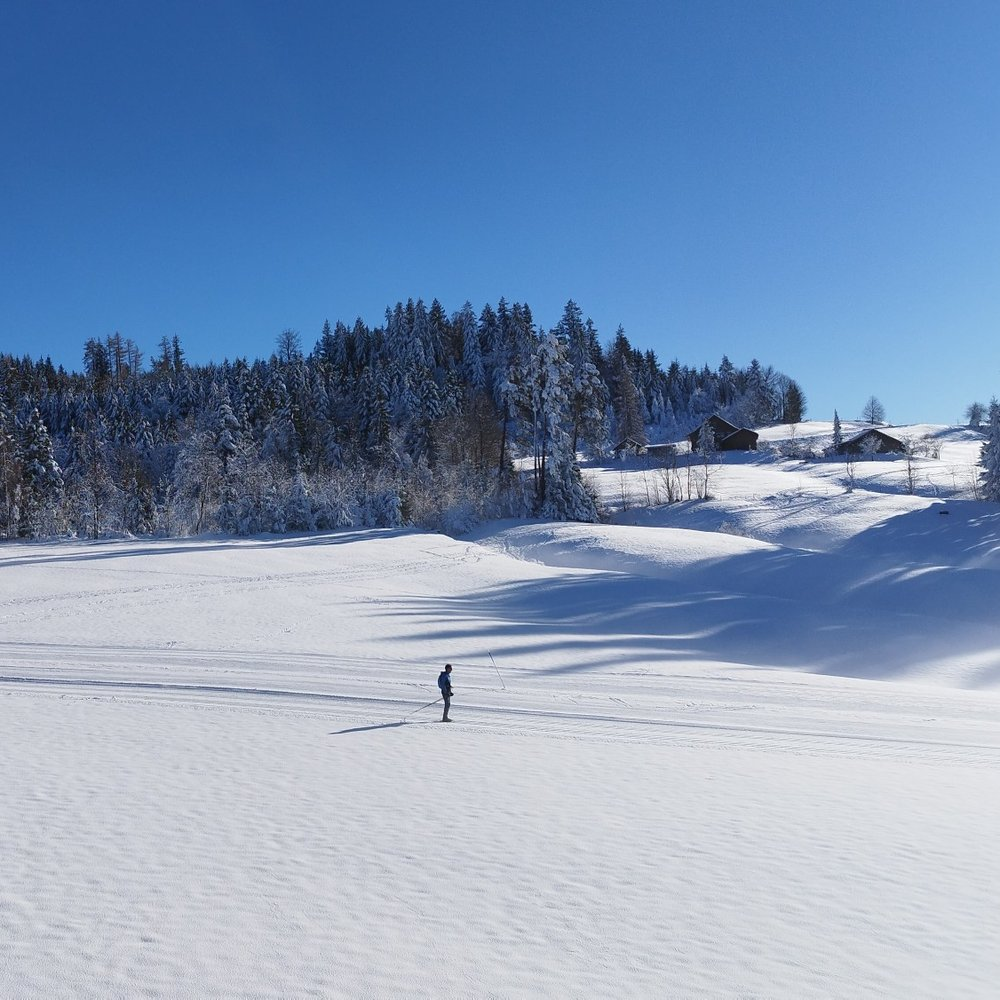
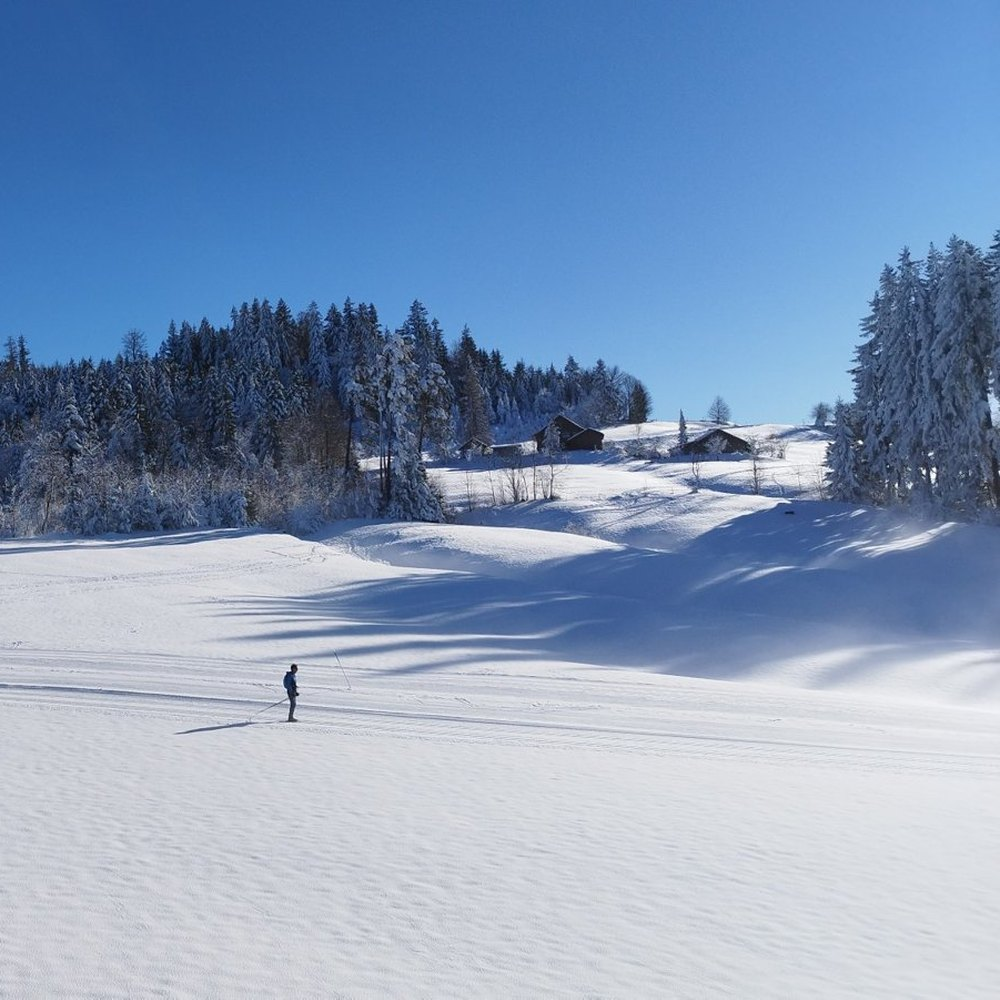
Titelbilder: Sommerbild Kirche entfernt, Winter Hügel heller, Langlauf besserer Ausschnitt
Im Sommer jetzt immer der Baum (Laptop und Handy). Hügel: dunkle Stellen
aufgehellt, weniger abgedunkelt. Langlauf: Laptop mit Wald, Hof und beiden
Langläufern; Handy neues Bild mit Schrift rechts. Tests, STAND, ENTSCHEIDE nachgeführt.

Claude-Session: https://claude.ai/code/session_01DxcwoxtqwL9C5tkRY5HxG9

diff --git a/css/kalender.css b/css/kalender.css
@@ -27,7 +27,6 @@ h1, h2, h3 { line-height: 1.2; }
 
 /* ---------- Titelbild (je nach Jahreszeit, siehe js/titelbild.js) ---------- */
 :root { --foto: url("../bilder/titel/herbst.jpg"); }
-.sommer     { --foto: url("../bilder/titel/sommer.jpg"); }
 .baum       { --foto: url("../bilder/titel/baum.jpg"); }
 .winter1    { --foto: url("../bilder/titel/winter.jpg"); }
 .winter2    { --foto: url("../bilder/titel/winter2.jpg"); }
@@ -36,7 +35,6 @@ h1, h2, h3 { line-height: 1.2; }
 .fruehling2 { --foto: url("../bilder/titel/fruehling2.jpg"); }
 @media (max-width: 719px) {   /* Handy: quadratische Fotos */
   :root       { --foto: url("../bilder/titel/herbst-handy.jpg"); }
-  .sommer     { --foto: url("../bilder/titel/sommer-handy.jpg"); }
   .baum       { --foto: url("../bilder/titel/baum-handy.jpg"); }
   .winter1    { --foto: url("../bilder/titel/winter-handy.jpg"); }
   .winter2    { --foto: url("../bilder/titel/winter2-handy.jpg"); }
@@ -53,20 +51,23 @@ h1, h2, h3 { line-height: 1.2; }
   .kopf { background-position: center 30%; }
   .baum .kopf { background-size: cover, 175% auto; background-position: center, left 62%; }
   .fruehling2 .kopf { background-position: center, center 100%; }   /* Hütte über der Schrift */
+  .winter1 .kopf { background-position: center, center 62%; }        /* Langläufer links, Hof und Wald sichtbar */
+  .winter1 .kopf-innen { text-align: right; }                       /* Schrift rechts, Langläufer bleibt frei */
 }
 @media (min-width: 720px) { .kopf { min-height: 380px; } }
 @media (min-width: 900px) { .kopf { background-position: center 30%; min-height: 420px; } }
 /* Laptop (10.11.2026, Wunsch Projektleitung «Bilder gut in Szene setzen»): Titelbild wächst mit der Bildschirmbreite
    (sonst nur ein dünner Streifen), und jedes Bild hat seinen eigenen Ausschnitt mit dem Hauptmotiv
-   (ganze Kirche mit Turmspitze, Langläufer, mehr vom Dorf beim Baum). Handy bleibt unverändert. */
+   (ganze Kirche mit Turmspitze, Langläufer, mehr vom Dorf beim Baum). Handy unverändert, ausser Langlauf (neues Bild, Schrift rechts). */
 @media (min-width: 900px) {
   .kopf { min-height: clamp(420px, 30vw, 580px); }
   .herbst .kopf { background-position: center 8%; }
-  .sommer:not(.baum) .kopf { background-position: center 12%; }
   .baum .kopf { background-position: center 60%; }
-  .winter1 .kopf { background-image: linear-gradient(180deg, rgba(0,0,0,0) 0%, rgba(0,0,0,.1) 50%, rgba(0,0,0,.55) 100%), var(--foto);
-    background-position: center 70%; }
-  .winter2 .kopf { background-position: center 25%; }
+  /* Langlauf: Wald, Hof und beide Langläufer sichtbar; Hügel: Gipfel mit Baum und Schlittler (Wunsch Projektleitung 10.11.2026) */
+  .winter1 .kopf, .winter2 .kopf { background-image: linear-gradient(180deg, rgba(0,0,0,0) 0%, rgba(0,0,0,.1) 50%, rgba(0,0,0,.55) 100%), var(--foto); }
+  .winter1 .kopf { background-position: center, center 52%; }
+  .winter2 .kopf { background-image: linear-gradient(180deg, rgba(0,0,0,0) 0%, rgba(0,0,0,.05) 50%, rgba(0,0,0,.4) 100%), var(--foto);
+    background-position: center, center 32%; }
   .winter3 .kopf { background-position: center 35%; }
   .fruehling1 .kopf { background-position: center 45%; }
   .fruehling2 .kopf { background-position: center 40%; }
@@ -83,7 +84,7 @@ h1, h2, h3 { line-height: 1.2; }
   .kopf .knopf { font-size: 1.1rem; padding: 13px 22px; }
 }
 /* Die Kirche (bzw. das Hauptmotiv) nie verdecken: Schrift auf die freie Seite */
-.herbst .kopf-innen, .sommer:not(.baum) .kopf-innen, .winter3 .kopf-innen, .fruehling2 .kopf-innen { text-align: right; }
+.herbst .kopf-innen, .winter3 .kopf-innen, .fruehling2 .kopf-innen { text-align: right; }
 @media (min-width: 720px) {
   .baum .kopf-innen, .fruehling1 .kopf-innen { max-width: none; margin: 0; padding-left: max(24px, 4vw); }
   .winter3 .kopf-innen, .fruehling2 .kopf-innen { max-width: none; margin: 0; padding-right: max(24px, 4vw); }

diff --git a/tests/test.js b/tests/test.js
@@ -210,15 +210,17 @@ const linkAus = (text, wort) => (text.match(new RegExp(wort + ": (\\S+)")) || []
     pruefe(await n.evaluate((k) => document.documentElement.classList.contains(k), klasse), `Titelbild im Monat ${monat}: ${klasse}`);
   }
   {
-    const lp = await browser.newPage({ viewport: { width: 1280, height: 800 } });
     let immerBaum = true;
-    for (let tag = 1; tag <= 4; tag++) {
-      await lp.clock.setFixedTime(new Date(`2027-07-0${tag}T10:00:00`));
-      await lp.goto("http://localhost:8765/index.html?monat=7");
-      immerBaum = immerBaum && await lp.evaluate(() => document.documentElement.classList.contains("baum"));
+    for (const viewport of [{ width: 1280, height: 800 }, { width: 390, height: 844 }]) {   // Laptop und Handy
+      const lp = await browser.newPage({ viewport });
+      for (let tag = 1; tag <= 4; tag++) {
+        await lp.clock.setFixedTime(new Date(`2027-07-0${tag}T10:00:00`));
+        await lp.goto("http://localhost:8765/index.html?monat=7");
+        immerBaum = immerBaum && await lp.evaluate(() => document.documentElement.classList.contains("baum"));
+      }
+      await lp.close();
     }
-    pruefe(immerBaum, "Laptop im Sommer: immer der Baum (Kirche wirkt dort abgeschnitten, Entscheid 10.11.2026)");
-    await lp.close();
+    pruefe(immerBaum, "Sommer auf Laptop und Handy: immer der Baum (Bild «Kirche» entfernt, Entscheid 10.11.2026)");
   }
   const bilder = await n.evaluate(() => [...document.styleSheets[0].cssRules].map((r) => r.cssText).join(" ").match(/bilder\/titel\/[\w-]+\.jpg/g));
   pruefe(bilder.every((b) => fs.existsSync(path.join(ROOT, b))), "alle Titelbilder vorhanden");

diff --git a/js/titelbild.js b/js/titelbild.js
@@ -1,9 +1,9 @@
 // Titelbild je nach Jahreszeit (Entscheide 7.11.2026). Gibt es mehrere Fotos, kommt jeden Tag das nächste.
 //   März–Mai:          Frühling – Wiese mit Säntis, Hütte
-//   Juni–August:       Sommer – Kirche, Baum (Laptop: nur Baum – Kirche wirkt dort abgeschnitten, Entscheid 10.11.2026)
+//   Juni–August:       Sommer – Baum (Bild «Kirche» entfernt, Entscheid 10.11.2026)
 //   September–November: Herbst
 //   Dezember–Februar:  Winter – Langlauf, Hügel, Tannen
-// Zum Ausprobieren: ?monat=4 (Monat) und ?foto=fruehling2 / baum / kirche / winter1 / winter2 / winter3
+// Zum Ausprobieren: ?monat=4 (Monat) und ?foto=fruehling2 / winter1 / winter2 / winter3
 // Die Bilder selbst und wo die Schrift steht (Kirche nie verdecken!) stehen in css/kalender.css.
 (function () {
   "use strict";
@@ -15,9 +15,7 @@
   if (m >= 3 && m <= 5) {
     k.add("fruehling", "fruehling" + (foto === "fruehling1" ? 1 : foto === "fruehling2" ? 2 : (tagNr % 2) + 1));
   } else if (m >= 6 && m <= 8) {
-    k.add("sommer");
-    const laptop = window.matchMedia && window.matchMedia("(min-width: 720px)").matches;   // gleiche Grenze wie in css/kalender.css
-    if (foto === "baum" || (foto !== "kirche" && (laptop || tagNr % 2 === 1))) k.add("baum");
+    k.add("sommer", "baum");
   } else if (m === 12 || m <= 2) {
     const w = foto && /^winter[123]$/.test(foto) ? Number(foto.slice(-1)) : (tagNr % 3) + 1;
     k.add("winter", "winter" + w);

diff --git a/tests/anschauen.js b/tests/anschauen.js
@@ -155,7 +155,7 @@ async function geraetPruefen(browser, name, geraet) {
 // Alle Titelbilder (?monat= und ?foto=, siehe js/titelbild.js) – zum Anschauen: Ist die Kirche/das Hauptmotiv frei? Schrift lesbar?
 async function titelbilder(browser) {
   console.log("\nTitelbilder (zum Anschauen)");
-  const alle = [["4", "fruehling1"], ["4", "fruehling2"], ["7", "kirche"], ["7", "baum"], ["10", ""], ["1", "winter1"], ["1", "winter2"], ["1", "winter3"]];
+  const alle = [["4", "fruehling1"], ["4", "fruehling2"], ["7", "baum"], ["10", ""], ["1", "winter1"], ["1", "winter2"], ["1", "winter3"]];
   for (const [name, geraet] of [["iphone", devices["iPhone 13"]], ["laptop", { viewport: { width: 1280, height: 800 } }]]) {
     const kontext = await neuerKontext(browser, geraet);
     for (const [monat, f] of alle) {

diff --git a/ENTSCHEIDE.md b/ENTSCHEIDE.md
@@ -3,9 +3,17 @@
 Neueste zuoberst. Jeder Entscheid mit Datum und kurzer Begründung. Wird ein Entscheid geändert,
 den alten nicht löschen, sondern als «ersetzt durch …» markieren.
 
+## 10.11.2026 (Titelbilder überarbeitet, nach Übersicht aller Bilder)
+- **Sommerbild «Kirche» ganz entfernt** (auch auf dem Handy; Projektleitung: «nicht gut»). Im Sommer immer der Baum,
+  bis ein zweites Sommerbild da ist. Ersetzt «Kirche nur auf dem Handy» (unten).
+- **Winter «Hügel» heller** (dunkle Stellen aufgehellt, weniger abgedunkelt), Ausschnitt mit Gipfel, Baum und Schlittlern.
+- **Winter «Langlauf» anderer Ausschnitt:** Laptop mit ganzem Wald, Hof und beiden Langläufern; Handy neues Bild
+  (Langläufer links, Schrift rechts).
+- **Gut so (Projektleitung):** Baum, Hütte, Wiese mit Säntis, Tannen.
+
 ## 10.11.2026 (Titelbilder auf dem Laptop)
 - **Jedes Titelbild mit eigenem Ausschnitt**, auf grossen Bildschirmen höher (Projektleitung: «gute Bilder, aber nicht gut in Szene gesetzt»).
-- **Sommer auf dem Laptop nur der Baum**, die Kirche nur auf dem Handy (Projektleitung: Kirche wirkt auf dem Laptop «abgehackt»,
+- ~~**Sommer auf dem Laptop nur der Baum**, die Kirche nur auf dem Handy~~ (ersetzt: Kirche ganz entfernt, siehe oben) (Projektleitung: Kirche wirkt auf dem Laptop «abgehackt»,
   Baum «recht cool, weil es auch ein bisschen anders ist»).
 - **Bilder werden Stück für Stück besser** («Die Webseite ist ein Prozess»): neue Bilder von einem Nachbarn der Projektleitung
   (Hobbyfotograf mit guter Kamera; Name im Bildnachweis als Dank), zuerst Winter, dann Frühling; eigene Bilder neu mit besserem Handy.
@@ -113,7 +121,7 @@ den alten nicht löschen, sondern als «ersetzt durch …» markieren.
 - **Kasten unten: «Den Verkehrsverein unterstützen und Mitglied werden»** – vorerst per Mail an info@rehetobel-tourismus.ch
   (Knopf «Mail schreiben» mit Betreff «Mitglied werden», Adresse auch sichtbar). Vereinsadresse, keine Privatadresse.
 - **Vier Jahreszeiten im Titelbild:** März–Mai Frühling (zwei eigene Fotos: Löwenzahnwiese mit Säntis, Hütte), Juni–August Sommer
-  (Kirche, Baum), September–November Herbst, Dezember–Februar Winter (drei Fotos). Mehrere Fotos wechseln täglich.
+  (Kirche, Baum – Kirche entfernt 10.11.2026, siehe oben), September–November Herbst, Dezember–Februar Winter (drei Fotos). Mehrere Fotos wechseln täglich.
   **Ändert** «März bis August Sommerfoto» oben.
 - **Winterfotos (Dezember bis Februar):** drei eigene Fotos des VVR (Langlauf, Schlittelhang, verschneite Tannen), täglich abwechselnd; Herbstfoto
   nur noch September bis November. Schrift jeweils auf der Seite ohne Hauptmotiv, unten stärker abgedunkelt wegen weissem Schnee.
@@ -138,7 +146,7 @@ den alten nicht löschen, sondern als «ersetzt durch …» markieren.
   **Appenzellerland Tourismus**, die sie dem VVR zur Verfügung gestellt haben.
   Kleiner Bildnachweis «Foto: Appenzellerland Tourismus» oben rechts im Titelbild.
   **Titelbild je nach Jahreszeit:** März bis August Sommerfoto (blauer Himmel), September bis Februar Herbstfoto (beide von Appenzellerland Tourismus).
-  **Zwei Sommerfotos abwechselnd:** Kirchen-Foto und Baum-Foto wechseln sich täglich ab (ein Tag das eine, am nächsten das andere).
+  ~~**Zwei Sommerfotos abwechselnd:** Kirchen-Foto und Baum-Foto wechseln sich täglich ab~~ (ersetzt 10.11.2026: nur noch Baum).
 - **Grundsatz Titelbild: Das Wichtigste im Bild wird nicht verdeckt** – vor allem die **Kirche** (das Wahrzeichen des Dorfes).
   Schrift und Knöpfe kommen auf die Seite, wo die Kirche nicht ist; bei jedem neuen Foto auf Handy und Laptop prüfen.
 - **Knopf «In meinen Kalender» statt «Erinnere mich»:** Wichtig ist, dass der Anlass in den eigenen Kalender kommt.

diff --git a/STAND.md b/STAND.md
@@ -21,7 +21,7 @@ Stand: 10.11.2026. Bei jedem Arbeitsbeginn lesen, am Ende nachführen.
 ## Neues Design (gebaut und auf main veröffentlicht am 7.11.2026, Okay der Projektleitung – auch für Schwimmbad-Symbol und gedrehtes Lesegesellschaft-Logo)
 - **Noch von Hand anschauen:** Seite auf dem Handy öffnen (GitHub braucht ein paar Minuten).
 Vorschau dazu in der Vorstandsablage (`ideen/originale/dorfkalender-vorschau/`), Entscheide siehe ENTSCHEIDE.md (7.11., Design).
-- **Titelbild je nach Jahreszeit** (`js/titelbild.js`, Bilder in `bilder/titel/`, Handy quadratisch): Frühling (2), Sommer (2), Herbst (1),
+- **Titelbild je nach Jahreszeit** (`js/titelbild.js`, Bilder in `bilder/titel/`, Handy quadratisch): Frühling (2), Sommer (1, Baum), Herbst (1),
   Winter (3), täglich abwechselnd. Schrift immer auf der Seite ohne Kirche/Hauptmotiv. Kein Logo und kein Bildnachweis im Bild,
   Nachweis in der Fusszeile «Fotos: Appenzellerland Tourismus, Verkehrsverein Rehetobel» (ohne Namen).
 - **Liste:** «Diese Woche im Dorf», «Nächste Woche», dann Monate; 20 Anlässe, dann «Weitere anzeigen» (beim Suchen alle).
@@ -114,11 +114,13 @@ Vorschau dazu in der Vorstandsablage (`ideen/originale/dorfkalender-vorschau/`),
   **Projektleitung:** kurz auf dem eigenen Laptop anschauen.
 - **📷 Bessere Titelbilder – offen, Projektleitung kümmert sich (10.11.2026):** «Die Webseite ist ein Prozess.»
   - Alle Laptop-Bilder sind nur 1600 px breit → auf grossen und guten Laptop-Bildschirmen leicht unscharf. Ideal: mind. 3000 px.
-  - Herbst und Kirche (Appenzellerland Tourismus): Originale in voller Grösse anfragen.
-  - Sommer auf dem Laptop nur noch der Baum (Kirche wirkt dort abgeschnitten, Entscheid 10.11.); Kirche bleibt auf dem Handy.
-    Ein zweites, breites Sommerbild für den Laptop wäre schön, ebenso ein zweites Herbstbild.
+  - Herbst (Appenzellerland Tourismus): Original in voller Grösse anfragen.
+  - Sommerbild «Kirche» ganz entfernt (10.11.) → im Sommer nur noch der Baum. Ein zweites Sommerbild und ein zweites Herbstbild wären schön.
+  - Überarbeitet (10.11., auf dem Zweig): «Hügel» heller, «Langlauf» besserer Ausschnitt (Handy: neues Bild, Schrift rechts).
+    Für gut befunden: Baum, Hütte, Wiese mit Säntis, Tannen. Herbst: noch keine Rückmeldung.
   - Frühling «Hütte»: Foto ist gerade (Hütte senkrecht), wirkt aber schräg, weil die Wiese am Hang ansteigt →
     ersetzen durch ein Frühlingsbild mit geradem Horizont (z. B. Blick übers Dorf oder Richtung Säntis).
+    (10.11.: Projektleitung findet es «okay» – eilt also nicht.)
   - Neue Bilder vom Nachbarn der Projektleitung (Hobbyfotograf, gute Kamera): diesen Winter Winterbilder, im Frühling Frühlingsbilder.
     Die Projektleitung sagt ihm jeweils, wofür es ein Bild braucht. Breite Bilder (Querformat) für den Laptop, möglichst gross.
     Bildnachweis in der Fusszeile ergänzen, sobald Bilder von ihm drin sind (Name nur mit seinem Einverständnis).
